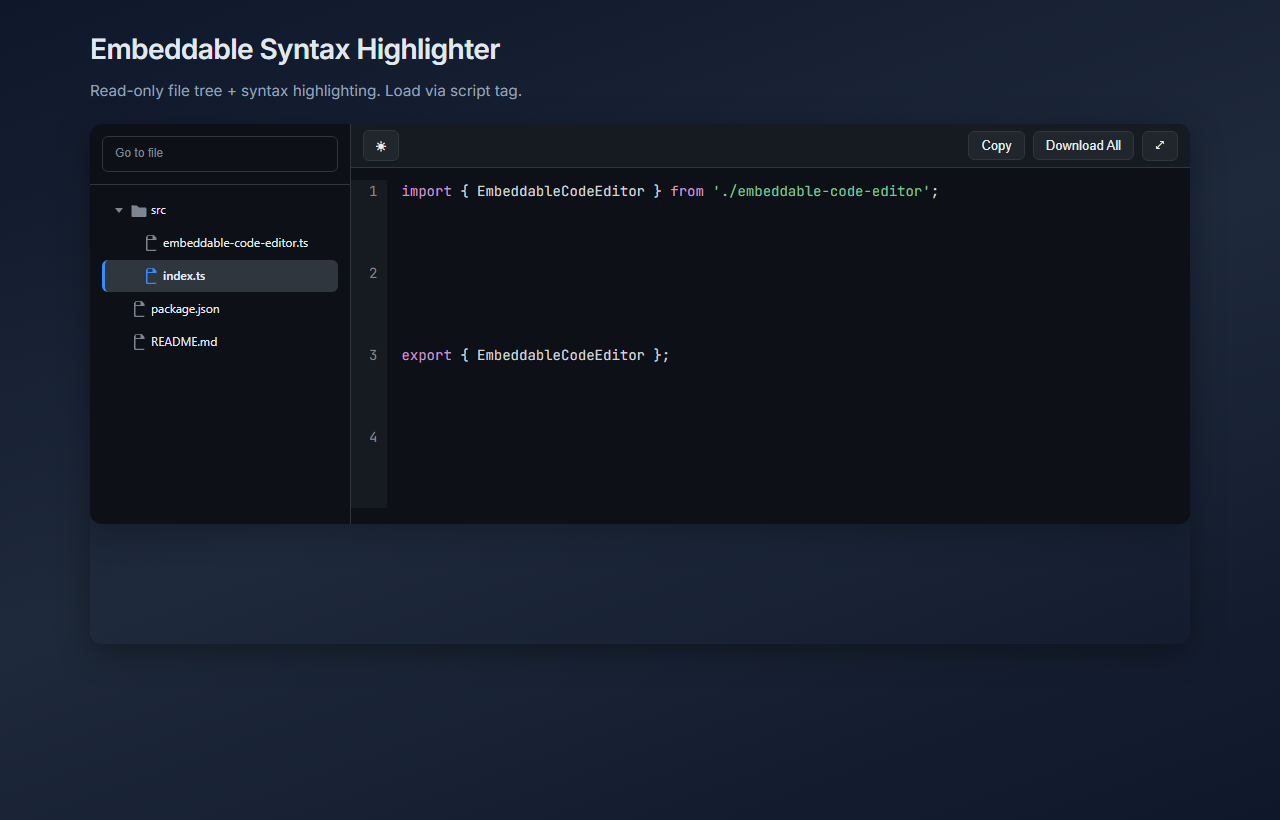
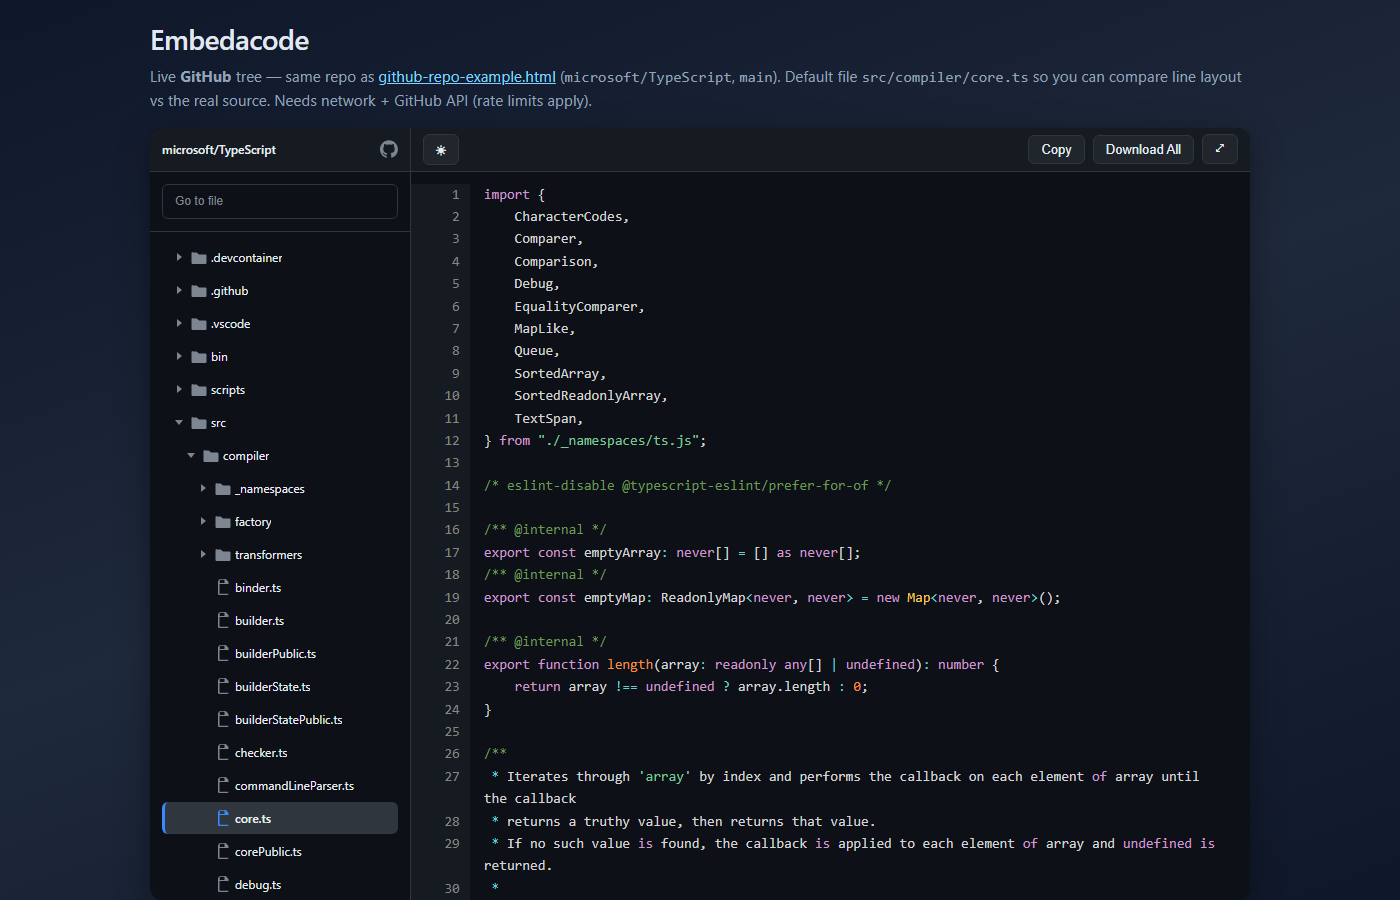
chore(release): v2.1.0 — Embedacode README, demos, and viewer fixes

diff --git a/examples/script-tag-example.html b/examples/script-tag-example.html
@@ -3,23 +3,30 @@
 <head>
   <meta charset="UTF-8">
   <meta name="viewport" content="width=device-width, initial-scale=1.0">
-  <title>Embeda Code — Script Tag Example</title>
-  <link rel="preconnect" href="https://fonts.googleapis.com">
-  <link rel="preconnect" href="https://fonts.gstatic.com" crossorigin>
-  <link href="https://fonts.googleapis.com/css2?family=JetBrains+Mono:wght@400;500&family=Inter:wght@400;500;600&display=swap" rel="stylesheet">
+  <title>Embedacode — Script tag example</title>
+  <!-- Intentionally no external fonts: avoids blocking window "load" in CI / compare with GitHub locally -->
   <style>
     * { box-sizing: border-box; }
-    body {
-      font-family: 'Inter', system-ui, -apple-system, sans-serif;
+    html, body {
+      height: 100%;
       margin: 0;
-      padding: 2rem;
+    }
+    body {
+      font-family: system-ui, -apple-system, sans-serif;
+      display: flex;
+      flex-direction: column;
+      padding: 1.25rem 1.5rem 0;
       background: linear-gradient(160deg, #0f172a 0%, #1e293b 50%, #0f172a 100%);
-      min-height: 100vh;
       color: #e2e8f0;
     }
     .page {
+      flex: 1;
+      display: flex;
+      flex-direction: column;
+      min-height: 0;
       max-width: 1100px;
       margin: 0 auto;
+      width: 100%;
     }
     h1 {
       margin: 0 0 0.5rem;
@@ -30,13 +37,21 @@
     .subtitle {
       color: #94a3b8;
       font-size: 0.95rem;
-      margin-bottom: 1.5rem;
+      margin: 0 0 1rem;
+      line-height: 1.5;
+      flex-shrink: 0;
     }
     .editor-wrapper {
-      height: 520px;
+      flex: 1;
+      min-height: 280px;
       border-radius: 12px;
       overflow: hidden;
       box-shadow: 0 8px 32px rgba(0,0,0,0.35);
+    }
+    .editor-wrapper embeda-code {
+      display: block;
+      height: 100%;
+      min-height: 0;
     }
   </style>
 
@@ -44,11 +59,16 @@
 </head>
 <body>
   <div class="page">
-    <h1>Embeda Code</h1>
-    <p class="subtitle">Read-only file tree + syntax highlighting. Load via script tag.</p>
+    <h1>Embedacode</h1>
+    <p class="subtitle">
+      Loads <code>microsoft/TypeScript</code> from GitHub (branch <code>main</code>) and opens
+      <code>src/compiler/core.ts</code> first. Uses the standalone script bundle like a real embed.
+      You need a network connection; the GitHub API applies rate limits to unauthenticated requests.
+      <a href="github-repo-example.html" style="color:#7dd3fc;">Minimal HTML example</a> (same settings, no page chrome).
+    </p>
 
     <div class="editor-wrapper">
-      <embeda-code id="my-editor"></embeda-code>
+      <embeda-code id="my-editor" theme="dark"></embeda-code>
     </div>
   </div>
 
@@ -57,28 +77,9 @@
       const editor = document.getElementById('my-editor');
 
       editor.config = {
-        files: [
-          {
-            path: 'src/index.ts',
-            content: `import { EmbedaCode } from './editor/embeda-code';\n\nexport { EmbedaCode };\n`,
-            language: 'typescript'
-          },
-          {
-            path: 'src/editor/embeda-code.ts',
-            content: `import { LitElement, html, css } from 'lit';\nimport { customElement, property } from 'lit/decorators.js';\n\n@customElement('embeda-code')\nexport class EmbedaCode extends LitElement {\n  @property() theme = 'dark';\n  \n  render() {\n    return html\`<div>Code Editor</div>\`;\n  }\n}\n`,
-            language: 'typescript'
-          },
-          {
-            path: 'package.json',
-            content: `{\n  "name": "embedacode",\n  "version": "1.0.0",\n  "description": "A read-only code editor component"\n}\n`,
-            language: 'json'
-          },
-          {
-            path: 'README.md',
-            content: `# Embeda Code\n\nA web component for displaying code with a file tree.\n\n## Usage\n\n\`\`\`html\n<embeda-code></embeda-code>\n\`\`\`\n`,
-            language: 'markdown'
-          }
-        ]
+        repoUrl: 'https://github.com/microsoft/TypeScript',
+        branch: 'main',
+        defaultFile: 'src/compiler/core.ts',
       };
     });
   </script>

diff --git a/e2e/embed.spec.ts b/e2e/embed.spec.ts
@@ -3,13 +3,13 @@
  * instantiated in DOM, config applied, DOM and behavior asserted.
  * Uses examples/script-tag-example.html (served from repo root).
  */
-import { test, expect, type Locator } from '@playwright/test';
+import { test, expect } from '@playwright/test';
 
-async function expandTreeFolder(editor: Locator, folderName: string): Promise<void> {
-  await editor.locator('.tree-row.dir-row').getByText(folderName, { exact: true }).click();
-}
+/** GitHub API + fetch can be slow; unauthenticated calls are rate-limited. */
+const GITHUB_LOAD_MS = 60_000;
 
 test.describe('Embed via script tag', () => {
+  test.describe.configure({ timeout: GITHUB_LOAD_MS + 30_000 });
   test('loads standalone JS and registers custom element', async ({ page }) => {
     await page.goto('/examples/script-tag-example.html');
     const editor = page.locator('embeda-code#my-editor');
@@ -20,26 +20,30 @@ test.describe('Embed via script tag', () => {
     expect(hasShadow).toBe(true);
   });
 
-  test('applies config and shows file tree after DOMContentLoaded', async ({ page }) => {
+  test('loads GitHub repo tree (microsoft/TypeScript)', async ({ page }) => {
     await page.goto('/examples/script-tag-example.html');
     const editor = page.locator('embeda-code#my-editor');
     await expect(editor).toBeVisible();
-    // Sidebar with file list (from config set in example script)
     const sidebar = editor.locator('.sidebar');
     await expect(sidebar).toBeVisible();
-    // First file is src/index.ts, so `src` is expanded; `src/editor` starts collapsed.
-    await expect(editor.locator('.tree-row.file-row')).toHaveCount(3);
-    await expect(editor.locator('text=package.json')).toBeVisible();
-    await expandTreeFolder(editor, 'editor');
-    await expect(editor.locator('.tree-row.file-row')).toHaveCount(4);
-    await expect(editor.locator('text=index.ts')).toBeVisible();
+    await expect(editor.getByTestId('sidebar-header')).toContainText('microsoft/TypeScript', {
+      timeout: GITHUB_LOAD_MS,
+    });
+    await expect(editor.locator('.tree-row.file-row').first()).toBeVisible({
+      timeout: GITHUB_LOAD_MS,
+    });
+    await expect(editor.getByText('core.ts', { exact: true }).first()).toBeVisible({
+      timeout: GITHUB_LOAD_MS,
+    });
   });
 
-  test('shows code view for first file', async ({ page }) => {
+  test('shows code view for default file (src/compiler/core.ts)', async ({ page }) => {
     await page.goto('/examples/script-tag-example.html');
     const editor = page.locator('embeda-code#my-editor');
-    await expect(editor.locator('.code-wrapper')).toBeVisible();
-    await expect(editor.locator('.code-wrapper')).toContainText('EmbedaCode');
+    const code = editor.locator('.code-wrapper');
+    await expect(code).toBeVisible({ timeout: GITHUB_LOAD_MS });
+    // Stable substring from the real file on main (see raw file on GitHub)
+    await expect(code).toContainText('emptyArray', { timeout: GITHUB_LOAD_MS });
   });
 
   test('copy and download buttons are present and clickable', async ({ page }) => {

diff --git a/src/highlight/highlighter.test.ts b/src/highlight/highlighter.test.ts
@@ -1,5 +1,5 @@
 import { describe, it, expect } from 'vitest';
-import { highlight, prepareCodeView } from './highlighter';
+import { highlight, prepareCodeView, normalizeEditorText } from './highlighter';
 
 describe('highlighter', () => {
   it('highlights javascript by default', () => {
@@ -27,5 +27,20 @@ describe('highlighter', () => {
     expect(r.highlightedLineHtml?.[0] ?? '').toContain('const');
     expect(r.highlightedLineHtml?.[1] ?? '').toContain('const');
     expect(r.highlightedHtml).toBe('');
+  });
+
+  it('prepareCodeView normalizes CRLF so lines do not carry stray carriage returns', () => {
+    const r = prepareCodeView('{\r\n  "a": 1\r\n}\r\n', 'json', { perLine: true });
+    // Trailing newline → final empty logical line
+    expect(r.highlightedLineHtml).toHaveLength(4);
+    for (const line of r.highlightedLineHtml ?? []) {
+      expect(line).not.toContain('\r');
+    }
+  });
+
+  it('normalizeEditorText strips BOM and normalizes newlines', () => {
+    const bom = '\ufeff{"x":1}';
+    expect(normalizeEditorText(bom)).toBe('{"x":1}');
+    expect(normalizeEditorText('a\rb')).toBe('a\nb');
   });
 });

diff --git a/examples/github-repo-example.html b/examples/github-repo-example.html
@@ -12,10 +12,15 @@
 </head>
 <body>
   <h1>GitHub Repo Example</h1>
-  <p class="note">Loading TypeScript from the official GitHub repo. Click files in the tree to see their content.</p>
+  <p class="note">
+    Loads <code>microsoft/TypeScript</code> (branch <code>main</code>) from GitHub and opens
+    <code>src/compiler/core.ts</code> first (TypeScript source, not only config files). Browse the tree for any path.
+    Needs network access; GitHub API rate limits apply without a token.
+    <a href="script-tag-example.html">Full-page demo</a> with the same repo settings.
+  </p>
 
   <div class="editor-wrapper">
-    <embeda-code id="github-editor"></embeda-code>
+    <embeda-code id="github-editor" theme="dark"></embeda-code>
   </div>
 
   <script>
@@ -23,7 +28,8 @@
       const editor = document.getElementById('github-editor');
       editor.config = {
         repoUrl: 'https://github.com/microsoft/TypeScript',
-        branch: 'main'
+        branch: 'main',
+        defaultFile: 'src/compiler/core.ts'
       };
     });
   </script>

diff --git a/src/highlight/highlighter.ts b/src/highlight/highlighter.ts
@@ -13,6 +13,15 @@ const MAX_VIEW_LINES = 12_000;
 /** Above this, skip Prism tokenization and escape as plain text (Prism can hang on huge input). */
 const MAX_PRISM_CHARS = 200_000;
 
+/** GitHub and other sources often use CRLF; strip BOM. Must run before splitting on `\n` or `\r` pollutes each line. */
+export function normalizeEditorText(raw: string): string {
+  let s = raw;
+  if (s.length > 0 && s.charCodeAt(0) === 0xfeff) {
+    s = s.slice(1);
+  }
+  return s.replace(/\r\n/g, '\n').replace(/\r/g, '\n');
+}
+
 function escapeHtml(s: string): string {
   return s
     .replace(/&/g, '&amp;')
@@ -64,7 +73,7 @@ export function prepareCodeView(
   language: string = 'javascript',
   options?: PrepareCodeViewOptions,
 ): PrepareCodeViewResult {
-  let text = raw;
+  let text = normalizeEditorText(raw);
   if (text.length > MAX_VIEW_BYTES) {
     text =
       text.slice(0, MAX_VIEW_BYTES) +

diff --git a/src/editor/embeda-code.ts b/src/editor/embeda-code.ts
@@ -373,6 +373,8 @@ export class EmbedaCode extends LitElement {
     }
 
     .code-grid-line code {
+      display: block;
+      width: 100%;
       margin: 0;
       padding: 0;
       background: none;
@@ -382,6 +384,13 @@ export class EmbedaCode extends LitElement {
       font-size: inherit;
       line-height: inherit;
       tab-size: inherit;
+    }
+
+    /* Prism tokens must not shift line metrics vs. the gutter */
+    .code-grid-line .token {
+      line-height: inherit;
+      font-size: inherit;
+      font-family: inherit;
     }
 
     :host([theme='light']) .code-grid-line code {

diff --git a/README.md b/README.md
@@ -1,14 +1,21 @@
 # Embedacode
 
-**Embed an entire GitHub repository** in a **blog article, tutorial, or course** — readers get a **read-only** file tree, syntax highlighting (Prism), copy/download, and optional file descriptions — without dropping a full IDE or a live playground into the page.
+**Embedacode** is a **read-only** code viewer for **articles, tutorials, courses, and docs**: a **file tree**, **Prism** syntax highlighting, **copy** and **download**, and optional **per-file descriptions**. You do **not** need GitHub to use it.
 
-The component is a **Lit custom element** with styles **scoped to its shadow DOM**, so it **won’t overwrite or inherit from your site or application CSS** in ways that break your layout. You can still theme it via CSS variables on the host when you want it to match your brand.
+**Two common setups:**
+
+1. **Snippets and hand-built trees** — Pass a `files` array: each entry is a path plus `content` (a string, or a URL to fetch when the user opens that file). Use this for one-off examples, multi-file walkthroughs, or any static JSON you control. No repository, no API keys.
+2. **Whole public GitHub repos (optional)** — Set `repoUrl` (and optionally `branch`, `defaultFile`) to load a real tree and file bodies from the **GitHub API**. Great for companion repos; skip it if you only want inline code.
+
+Either way, readers get a focused viewer instead of a full IDE or a live playground.
+
+The component is a **Lit** `<embeda-code>` custom element with styles **scoped to its shadow DOM**, so it **won’t fight your site or application CSS**. Theme it with the `theme` attribute and CSS variables on the host when you want it to match your brand.
 
 Ship via **one script tag** (standalone bundle) or **npm** (GitHub Packages).
 
-![Embedacode: file tree, line numbers, and syntax-highlighted TypeScript](docs/embeddable-code-editor-demo.png)
+![Embedacode: dark theme, optional live GitHub tree (microsoft/TypeScript), src/compiler/core.ts](docs/embeddable-code-editor-demo.png)
 
-> The screenshot filename still says `embeddable-code-editor-demo` from before the rename; rename the file in `docs/` whenever you like.
+> Screenshot: [`examples/script-tag-example.html`](examples/script-tag-example.html) using the **optional** `repoUrl` demo. The **minimal** path is `files` only (see the **Script tag** section below). Demo image filename is unchanged for stable links.
 
 ## Repo layout
 
@@ -53,12 +60,12 @@ The standalone build bundles Lit and Prism into one file: `dist/embedacode.stand
 </script>
 ```
 
-Heavier example: [examples/script-tag-example.html](https://github.com/mikehenken/embedacode/blob/main/examples/script-tag-example.html).
+**Live GitHub demo** (optional feature): [examples/script-tag-example.html](https://github.com/mikehenken/embedacode/blob/main/examples/script-tag-example.html). **Minimal HTML** (repo URL only, no page chrome): [examples/github-repo-example.html](https://github.com/mikehenken/embedacode/blob/main/examples/github-repo-example.html).
 
 Pinned release asset (no npm):
 
 ```html
-<script src="https://github.com/mikehenken/embedacode/releases/download/v2.0.0/embedacode.standalone.js"></script>
+<script src="https://github.com/mikehenken/embedacode/releases/download/v2.1.0/embedacode.standalone.js"></script>
 ```
 
 ## npm / bundler
@@ -77,20 +84,9 @@ The import registers the custom element; there is no default export. Set `elemen
 | `dist/embedacode.umd.js` | UMD (CommonJS / script environments that expect UMD) |
 | `dist/embedacode.standalone.js` | Single-file bundle (Lit + Prism included) |
 
-## Migrating from `embeddable-code-editor`
-
-If you used the previous package and custom element:
-
-| Before | After |
-|--------|--------|
-| npm `@mikehenken/embeddable-code-editor` | `@mikehenken/embedacode` |
-| `<embeddable-code-editor>` | `<embeda-code>` |
-| `dist/embeddable-code-editor.standalone.js` (and related filenames) | `dist/embedacode.standalone.js` (`embedacode.es.js`, `embedacode.umd.js`) |
-| `localStorage` key `embeddable-code-editor-theme` | `embedacode-theme` |
-
-Update script URLs, imports, element tags, and any code that reads the old theme key. Config shape and behavior are unchanged aside from branding and file names.
-
 ## Config
+
+Use **`files` alone** for snippets and static trees. Add **`repoUrl`** only when you want to pull from a public GitHub repository (it merges with `files`; your `files` entries override paths that clash).
 
 **File object**
 
@@ -115,7 +111,7 @@ Update script URLs, imports, element tags, and any code that reads the old theme
 | `wordWrap` | Long lines wrap (default `true`; set `false` for horizontal scroll). When `true`, the view uses a **CSS Grid** (one row per logical line) so the gutter stays aligned with wrapped text; when `false`, a classic dual-`pre` layout is used. |
 | `defaultFile` | Normalized path to open first (e.g. `README.md`). If omitted and `repoUrl` is set, root `README.md` is opened when present |
 
-## GitHub repos
+## GitHub repos (optional)
 
 ```javascript
 editor.config = {
